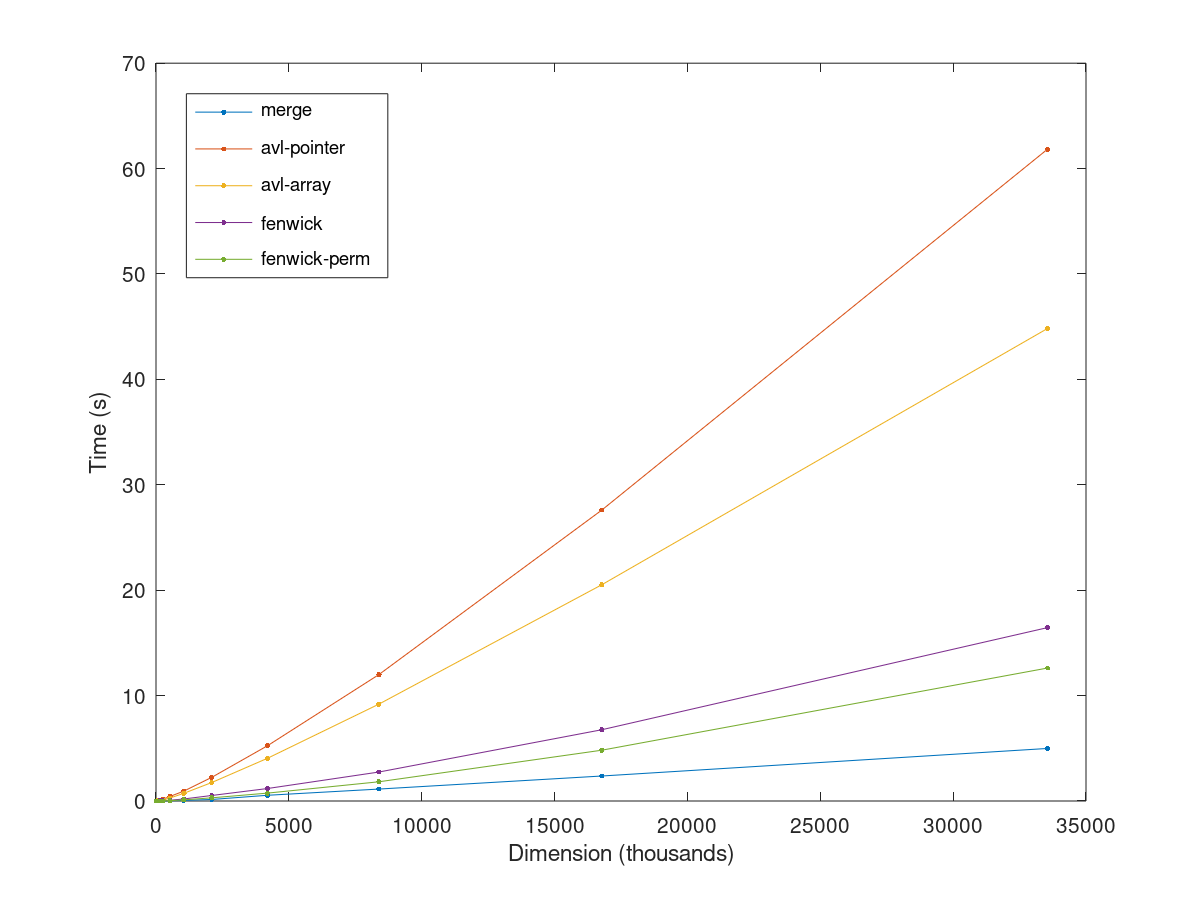
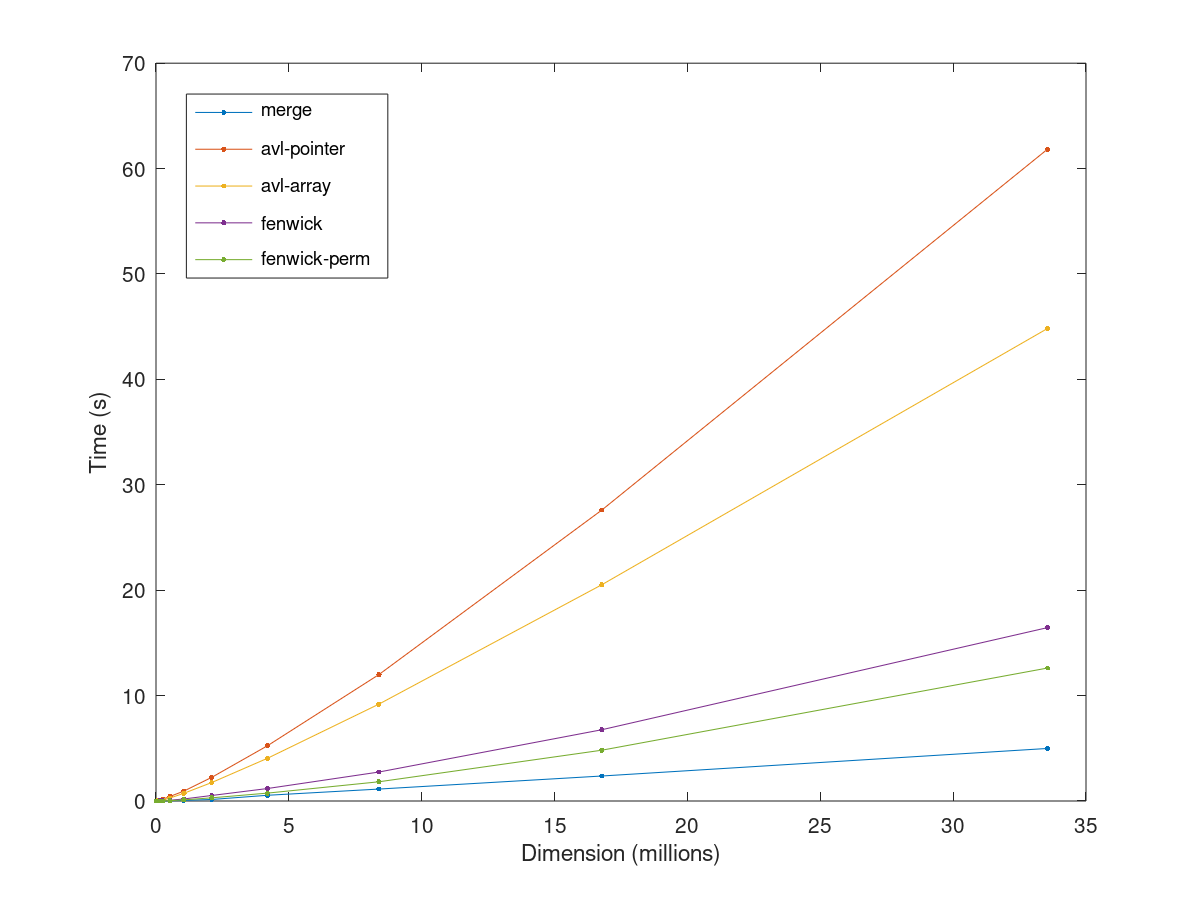
Add conclusive remarks, change units in (4)

diff --git a/Report 1/README.md b/Report 1/README.md
@@ -1,19 +1,27 @@
 # Inversions Count Benchmark
 
-We propose four approaches and solutions to this problem and benchmark them using [Google Benchmark](https://github.com/google/benchmark):
+We propose five approaches and solutions to this problem and benchmark them using [Google Benchmark](https://github.com/google/benchmark):
 
 1. Using Merge sort
 2. Using Binary balanced trees (AVL trees implemented with pointers)
 3. Using Binary balanced trees (AVL trees implemented with `std::vector`)
-4. Using Fenwick trees (`std::vector` implementation)
+4. Using Fenwick trees (`std::vector` implementation, using `std::sort` to remap)
+5. Using Fenwick trees (`std::vector` implementation, assuming the input is a permutation)
 
-The first approach is a standard solution to this problem. Comparing (2) and (3) allows us to compare how the use of pointers and frequent memory allocations can affect cache efficiency and thus degrade performance. Finally, the use of Fenwick trees in solution (4) allows us to test and benchmark a completely different approach which uses an underlying vector with no concrete tree being constructed (similarly as heaps).
+The first approach is a standard solution to this problem. Comparing the two Binary balanced trees implementations allows us to compare how the use of pointers and frequent memory allocations can affect cache efficiency and thus degrade performance. Finally, the use of Fenwick trees allows us to test and benchmark a completely different approach which uses an underlying vector with no concrete tree being constructed (similarly as heaps).
 
-The Fenwick tree solution has also been tested on randomly generated permutations in order to verify how much the sorting and remapping overhead can affect the overall performance. The remapping uses the `std::sort` function available from the STL.
+The Fenwick tree solution has also been tested on randomly generated permutations in order to verify how much the sorting and remapping overhead can affect the overall performance. The first solution remaps the input to a permutation using the `std::sort` function available from the STL, while the second assumes it is already a permutation.
 
 ## Methodological notes
 
-All tests have been verified by randomly generating data and testing all the solutions on the same datasets, with progressively increasing input dimension. The input dimension is linear until size 1024 to check for early overheads, then increases in blocks of 512 until size 65536 in order to interpolate a starting complexity representation. Finally, we tested by exponentially increasing array size using powers of two.
+All tests have been verified by randomly generating data and testing all the solutions on the same datasets, with progressively increasing input dimension. We tested the solutions on the following intervals:
+
+1. [(1)](https://github.com/iwilare/CompetitiveProgramming/tree/master/Report%201#1-size-1-1024-linear-increase-by-1) Linear increase by 1 up to 1024
+2. [(2)](https://github.com/iwilare/CompetitiveProgramming/tree/master/Report%201#2-size-1-65536-linear-increase-by-512) Linear increase by 512 up to 65536
+3. [(3)](https://github.com/iwilare/CompetitiveProgramming/tree/master/Report%201#3-size-from-65536-exponential-increase-by-2-up-to-33554432-225) Exponential increase by factors of 2 up to 33,554,432 (2^25)
+4. [(4)](https://github.com/iwilare/CompetitiveProgramming/tree/master/Report%201#4-overtake-of-merge-over-fenwick-perm-linear-increase-by-1024) Linear increase by 1024 up to 1,048,576 (2^20)
+
+The input dimension is linear until size 1024 to check for early overheads, then increases in blocks of 512 until size 65536 in order to interpolate a starting complexity representation; we then used increases of 1024 to concentrate on the behaviour of the Fenwick approaches compared to the merge one, and finally we tested all solutions by exponentially increasing array size using powers of two.
 
 Multiple iterations of each test are automatically performed by [Google Benchmark](https://github.com/google/benchmark) and then averaged together in order to smooth down the systematic error.
 
@@ -21,26 +29,35 @@ All tested code is available on this repository and all solutions have been test
 
 # Results
 
-## Size 1-1024, linear increase by 1
+## 1. Size 1-1024, linear increase by 1
 
 ![Linear increase 1-1024](results/1024.png)
 
-## Size 1-65536, linear increase by 512
+## 2. Size 1-65536, linear increase by 512
 
 ![1024-65536, increase by 512](results/65536.png)
 
-## Size from 65536, exponential increase by 2
+## 3. Size from 65536, exponential increase by 2 up to 33,554,432 (2^25)
 
 ![65536, double up](results/all.png)
 
-## Overtaking of `merge` over `fenwick-perm` (increase by 1024 up to 1,048,576)
+## 4. Overtake of `merge` over `fenwick-perm`, linear increase by 1024
 
 ![Overtake of `merge` over `fenwick-perm`](results/overtake.png)
+
+# Conclusions
+
+- `avl-pointer` and `avl-array` are surprisingly comparable for small values. The difference between the two solutions however increases as the dimension increases, thus `avl-array` having the upper hand.
+- Until dimension ~512, shown in interval [(1)](https://github.com/iwilare/CompetitiveProgramming/tree/master/Report%201#1-size-1-1024-linear-increase-by-1), the `fenwick` with remapping approach is faster than `merge`, after which the two abruptly exchange, with a somewhat visible change in the way `fenwick` increases.
+- This phenomenon might be due to the fact that `fenwick` uses `std::sort`, which is well optimized compared to a naive implementation of Merge Sort, but might behave differently for other dimensions. Both solutions effectively implement a sorting operation, but the overhead of having to later create the Fenwick tree after sorting probably puts the `fenwick` with remapping approach at further disadvantage compared to the `merge` one.
+- For the entire second interval [(2)](https://github.com/iwilare/CompetitiveProgramming/tree/master/Report%201#2-size-1-65536-linear-increase-by-512) until 65536 the situation remains stable overall.
+- However, in the exponential and biggest interval [(3)](https://github.com/iwilare/CompetitiveProgramming/tree/master/Report%201#3-size-from-65536-exponential-increase-by-2-up-to-33554432-225), the fastest solution clearly comes out to be `merge` again, which manages to be faster even than `fenwick-perm` (which doesn't use `std::sort` and assumes that the input is already a "remapped" permutation).
+- As shown in the last diagram [(4)](https://github.com/iwilare/CompetitiveProgramming/tree/master/Report%201#4-overtake-of-merge-over-fenwick-perm-linear-increase-by-1024), the overtake of the two solutions seems to be at around ~500k elements, with the `merge` solution remaining stable even as dimension increases. Even after repeating this interval with particularly great dimensions, the output remains consistent with `merge` being in advantage. Observe the distinctive ways the two `fenwick` approaches increase when compared with the `merge` one.
 
 # Specs
 
 Compiled with `g++ -O3`, gcc version 8.3.0 (Debian 8.3.0-6), [Google Benchmark](https://github.com/google/benchmark) 1.5.2, tested on a Intel(R) Core(TM) i7-7500U CPU @ 2.70 GHz / 2.90 GHz, 4 cores using WSL2.
-Cache and CPU reported by Google Benchmark:
+Cache and CPU info reported by [Google Benchmark](https://github.com/google/benchmark):
 ```
 Run on (4 X 2904 MHz CPU s)
 CPU Caches:
